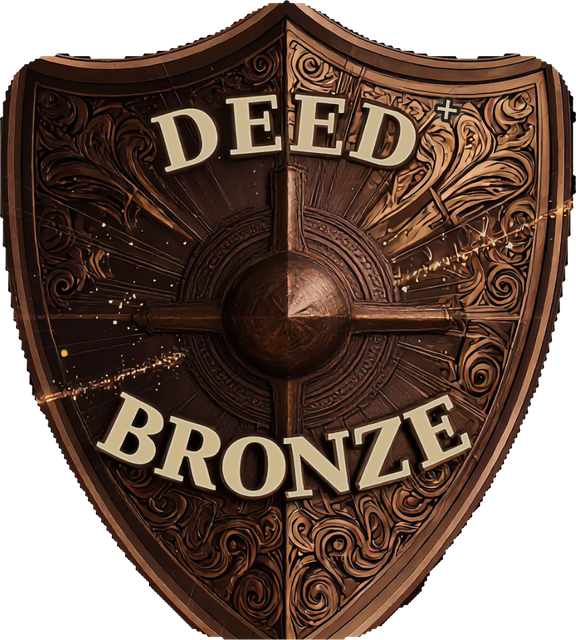
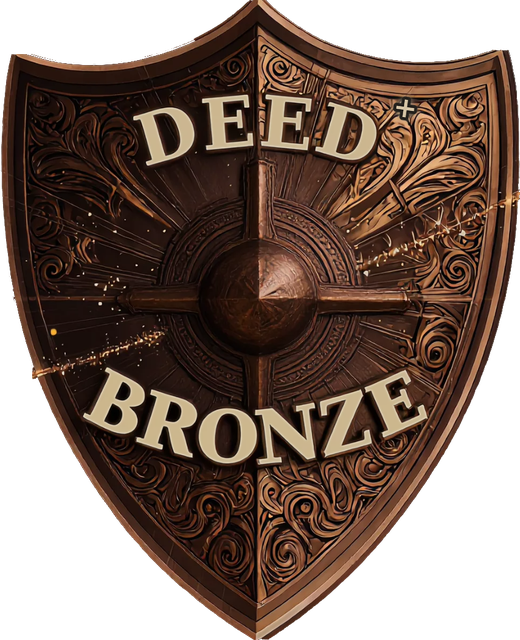
Jednotny profil naprieč appkou + nove stitove assety
- Stitove assety vymenene za finalne (orezane, priehladne pozadie)
- CudziProfil: jednotne tri cisla, stit v hlavicke, O nas pod menom, QR v akcnom riadku, sekcia DOVERA prec
- FarskyProfil: jednotne tri cisla, popis orezany na 3 riadky s odkazom viac, akcny riadok Sledovat/Zdielat/QR/zvoncek
- Profil (user): stit 36 -> 86 px, klikatelny detail
- orgy.ts: stat rozsireny o skutky a snami

Claude-Session: https://claude.ai/code/session_01FfySxXW9bjXwHm1Q1Y7jQ9

diff --git a/src/features/cudzi-profil/orgy.ts b/src/features/cudzi-profil/orgy.ts
@@ -31,7 +31,7 @@ export interface OrgData {
   cover: string;
   logo: string;
   onas: string;
-  stat: { vyzbierane: string; podporovatelia: string };
+  stat: { vyzbierane: string; podporovatelia: string; skutky: string; snami: string };
   kampane: OrgKampan[];
   akcie: Akcia[];
 }
@@ -68,7 +68,7 @@ const ORGY: OrgData[] = [
     meno: "OZ Otvorené dvere Trenčín", lok: "Trenčín · centrum", level: "Gold", emoji: "🍲",
     cover: F.vydajObedov, logo: F.jedalen,
     onas: "Nízkoprahová jedáleň a nocľaháreň pre ľudí bez domova v Trenčíne. Denne vydáme 120 teplých obedov a pred zimou dopĺňame zásoby. Doklady o použití prostriedkov zverejňujeme.",
-    stat: { vyzbierane: "18 400 €", podporovatelia: "612" },
+    stat: { vyzbierane: "18 400 €", podporovatelia: "612", skutky: "64", snami: "4 roky" },
     kampane: [
       { id: "charitatn", nazov: "Zásoby pre jedáleň pred zimou", vyzbierane: 940, ciel: 2500, foto: F.jedalen, emoji: "🍲", lok: "Trenčín · centrum", ludia: 41,
         popis: "Nízkoprahová jedáleň vydáva denne 120 teplých obedov ľuďom bez domova. Pred zimou chýbajú zásoby." },
@@ -81,7 +81,7 @@ const ORGY: OrgData[] = [
     meno: "OZ Túlavá labka", lok: "Trenčín · okraj", level: "Silver", emoji: "🐾",
     cover: F.utulok, logo: F.utulok,
     onas: "Zachraňujeme opustené psy a mačky v okolí Trenčína. Staráme sa o 40 zvierat, hľadáme im nové domovy a pokrývame veterinárnu starostlivosť.",
-    stat: { vyzbierane: "6 850 €", podporovatelia: "294" },
+    stat: { vyzbierane: "6 850 €", podporovatelia: "294", skutky: "31", snami: "2 roky" },
     kampane: [
       { id: "labka", nazov: "Krmivo a deky na zimu", vyzbierane: 540, ciel: 1200, foto: F.utulok, emoji: "🐾", lok: "Trenčín · okraj", ludia: 28,
         popis: "Krmivo a deky pre 40 psov a mačiek na zimu. Pomôže aj materiálny dar." },
@@ -94,7 +94,7 @@ const ORGY: OrgData[] = [
     meno: "Hospic Pod Brezinou", lok: "Trenčín · centrum", level: "Gold", emoji: "🕊",
     cover: F.zdravotnici, logo: F.zdravotnici,
     onas: "Paliatívna starostlivosť s dôstojnosťou do poslednej chvíle. Sprevádzame pacientov aj ich rodiny — doma aj na lôžkovom oddelení.",
-    stat: { vyzbierane: "31 200 €", podporovatelia: "857" },
+    stat: { vyzbierane: "31 200 €", podporovatelia: "857", skutky: "71", snami: "3 roky" },
     kampane: [
       { id: "hospic", nazov: "Polohovacie lôžka pre paliatívne oddelenie", vyzbierane: 2380, ciel: 6000, foto: F.zdravotnici, emoji: "🛏", lok: "Trenčín · centrum", ludia: 34,
         popis: "Zbierka na polohovacie lôžka pre paliatívne oddelenie. Dôstojnosť do poslednej chvíle." },
@@ -107,7 +107,7 @@ const ORGY: OrgData[] = [
     meno: "Detská nemocnica — nadácia", lok: "nadácia · Bratislava", level: "Gold", emoji: "🏥",
     cover: F.nemocnica, logo: F.nemocnica,
     onas: "Pomáhame detským oddeleniam nemocníc na Slovensku. Overená nezisková organizácia. Doklady o použití prostriedkov zverejňujeme.",
-    stat: { vyzbierane: "64 300 €", podporovatelia: "2 118" },
+    stat: { vyzbierane: "64 300 €", podporovatelia: "2 118", skutky: "176", snami: "5 rokov" },
     kampane: [
       { id: "nadacia-inkubator", nazov: "Nový inkubátor pre novorodencov", vyzbierane: 11200, ciel: 18000, foto: F.nemocnica, emoji: "👶", lok: "Bratislava", ludia: 204,
         popis: "Neonatologické oddelenie potrebuje nový inkubátor pre predčasne narodené deti. Každé euro pomáha najmenším." },
@@ -120,7 +120,7 @@ const ORGY: OrgData[] = [
     meno: "Motýlik", lok: "Detský hospic · Bratislava", level: "Gold", emoji: "🕊",
     cover: F.srdce, logo: F.srdce,
     onas: "Detský hospic — mobilná paliatívna starostlivosť pre nevyliečiteľne choré deti a ich rodiny. Sprevádzame doma, kde je deťom najlepšie.",
-    stat: { vyzbierane: "128 500 €", podporovatelia: "4 902" },
+    stat: { vyzbierane: "128 500 €", podporovatelia: "4 902", skutky: "408", snami: "5 rokov" },
     kampane: [
       { id: "motylik-mobil", nazov: "Mobilná paliatívna starostlivosť", vyzbierane: 42300, ciel: 60000, foto: F.zdravotnici, emoji: "🚑", lok: "celá SR", ludia: 1240,
         popis: "Tím lekárov a sestier dochádza za deťmi domov po celom Slovensku. Ročné náklady na jednu rodinu sú 4 800 €." },
@@ -131,7 +131,7 @@ const ORGY: OrgData[] = [
     meno: "Nádej pacientom", lok: "Onkopacienti · celé SR", level: "Legend", emoji: "🎗",
     cover: F.lieky, logo: F.lieky,
     onas: "Už 30 rokov pomáhame onkologickým pacientom a ich rodinám — poradenstvo, ubytovanie pri liečbe, rekondičné pobyty a prevencia.",
-    stat: { vyzbierane: "212 000 €", podporovatelia: "9 340" },
+    stat: { vyzbierane: "212 000 €", podporovatelia: "9 340", skutky: "778", snami: "5 rokov" },
     kampane: [
       { id: "nadej-den-stuzky", nazov: "Deň žltej stužky — podpora pacientov", vyzbierane: 86000, ciel: 120000, foto: F.kvety, emoji: "🌼", lok: "celá SR", ludia: 5120,
         popis: "Výnos Dňa žltej stužky financuje bezplatné poradenstvo, ubytovanie rodín pri liečbe a rekondičné pobyty pacientov." },
@@ -142,7 +142,7 @@ const ORGY: OrgData[] = [
     meno: "Tichý pomocník", lok: "Rodiny s vážnou chorobou · SR", level: "Gold", emoji: "😇",
     cover: F.srdce, logo: F.kvety,
     onas: "Pravidelné mesačné príspevky rodinám, kde choroba dieťaťa alebo rodiča spôsobila finančnú núdzu. Každé euro od darcov ide rodinám do posledného centu.",
-    stat: { vyzbierane: "540 000 €", podporovatelia: "18 250" },
+    stat: { vyzbierane: "540 000 €", podporovatelia: "18 250", skutky: "1520", snami: "5 rokov" },
     kampane: [
       { id: "pomocnik-rodiny", nazov: "Mesačná pomoc 3 200 rodinám", vyzbierane: 265000, ciel: 400000, foto: F.srdce, emoji: "💛", lok: "celá SR", ludia: 18250,
         popis: "Pravidelný mesačný príspevok drží rodiny s chorým dieťaťom nad vodou. Systém Dobrého anjela posiela darcom presné vyúčtovanie." },
@@ -153,7 +153,7 @@ const ORGY: OrgData[] = [
     meno: "Náruč deťom", lok: "Deti v náhradnej starostlivosti · SR", level: "Gold", emoji: "🧒",
     cover: F.deti, logo: F.deti,
     onas: "Aby každé dieťa malo rodinu. Podporujeme deti v centrách pre deti a rodiny, sprevádzame náhradné rodiny a pomáhame súrodencom ostať spolu.",
-    stat: { vyzbierane: "98 700 €", podporovatelia: "3 605" },
+    stat: { vyzbierane: "98 700 €", podporovatelia: "3 605", skutky: "300", snami: "5 rokov" },
     kampane: [
       { id: "naruc-tabory", nazov: "Letné tábory pre deti z centier", vyzbierane: 7400, ciel: 15000, foto: F.mladez, emoji: "⛺", lok: "celá SR", ludia: 411,
         popis: "Týždeň tábora pre dieťa z centra znamená kamarátov, zážitky a pocit normálneho detstva. Jeden pobyt = 180 €." },
@@ -164,7 +164,7 @@ const ORGY: OrgData[] = [
     meno: "Zvieracia archa", lok: "Útulky · celá SR", level: "Gold", emoji: "🐾",
     cover: F.utulok, logo: F.utulok,
     onas: "Najväčšia sieť útulkov na Slovensku. Ročne zachránime tisíce zvierat — veterinárna starostlivosť, adopcie a terénne zásahy proti týraniu.",
-    stat: { vyzbierane: "156 000 €", podporovatelia: "7 812" },
+    stat: { vyzbierane: "156 000 €", podporovatelia: "7 812", skutky: "651", snami: "5 rokov" },
     kampane: [
       { id: "archa-utulky", nazov: "Prevádzka útulkov a krmivo", vyzbierane: 34500, ciel: 50000, foto: F.utulok, emoji: "🐕", lok: "celá SR", ludia: 2140,
         popis: "Denná prevádzka útulkov: krmivo, energie a veterinárna starostlivosť pre stovky zvierat čakajúcich na domov." },
@@ -175,7 +175,7 @@ const ORGY: OrgData[] = [
     meno: "Prístrešie SK", lok: "Ľudia bez domova · Bratislava", level: "Silver", emoji: "🏠",
     cover: F.vydajObedov, logo: F.ruky,
     onas: "Nocľahárne a útulky s najnižším prahom — prijmeme každého. Nocľah, jedlo, ošetrenie a cesta späť do života pre ľudí bez domova.",
-    stat: { vyzbierane: "72 400 €", podporovatelia: "2 511" },
+    stat: { vyzbierane: "72 400 €", podporovatelia: "2 511", skutky: "209", snami: "5 rokov" },
     kampane: [
       { id: "pristresie-nocl", nazov: "Nocľaháreň sv. Vincenta — zima", vyzbierane: 18200, ciel: 30000, foto: F.vydajObedov, emoji: "🛏", lok: "Bratislava", ludia: 903,
         popis: "V mrazoch je nocľaháreň otázka života. Jedna noc s večerou a ošetrením pre jedného človeka = 9 €." },
@@ -186,7 +186,7 @@ const ORGY: OrgData[] = [
     meno: "Stromosvet", lok: "Výsadba stromov · SR", level: "Bronze", emoji: "🌳",
     cover: F.les, logo: F.les,
     onas: "Sadíme stromy tam, kde chýbajú — mestské aleje, vetrolamy aj obnova lesov po kalamitách. Každý strom má svojho darcu.",
-    stat: { vyzbierane: "12 300 €", podporovatelia: "740" },
+    stat: { vyzbierane: "12 300 €", podporovatelia: "740", skutky: "61", snami: "3 roky" },
     kampane: [
       { id: "stromosvet-brezina", nazov: "1 000 stromov pre Brezinu", vyzbierane: 4100, ciel: 8000, foto: F.les, emoji: "🌳", lok: "Trenčín · Brezina", ludia: 312,
         popis: "Obnova lesoparku Brezina po kalamite. Jeden strom so sadením a starostlivosťou = 8 €." },
@@ -197,7 +197,7 @@ const ORGY: OrgData[] = [
     meno: "Klub seniorov Sihoť", lok: "Komunita · Sihoť", level: "Silver", emoji: "☕",
     cover: F.seniori, logo: F.seniori2,
     onas: "Komunitný klub pre osamelých seniorov na Sihoti — pravidelné stretnutia, výlety, tvorivé dielne a medzigeneračné akcie so školami.",
-    stat: { vyzbierane: "3 900 €", podporovatelia: "186" },
+    stat: { vyzbierane: "3 900 €", podporovatelia: "186", skutky: "15", snami: "2 roky" },
     kampane: [
       { id: "seniori-dielne", nazov: "Tvorivé dielne a výlety pre seniorov", vyzbierane: 820, ciel: 2000, foto: F.seniori, emoji: "🎨", lok: "Trenčín · Sihoť", ludia: 74,
         popis: "Program na celý polrok: dielne, prednášky a dva výlety. Účasť pre seniorov zostáva zadarmo." },
@@ -208,7 +208,7 @@ const ORGY: OrgData[] = [
     meno: "Dobrovoľní hasiči TN", lok: "Komunita · Trenčín", level: "Gold", emoji: "🚒",
     cover: F.dobrovolnici, logo: F.dobrovolnici,
     onas: "Dobrovoľný hasičský zbor Trenčín — zásahy pri povodniach a požiaroch, ukážky pre školy a výcvik mladých hasičov.",
-    stat: { vyzbierane: "9 100 €", podporovatelia: "402" },
+    stat: { vyzbierane: "9 100 €", podporovatelia: "402", skutky: "33", snami: "2 roky" },
     kampane: [
       { id: "hasici-vybava", nazov: "Zásahová výbava pre mladých hasičov", vyzbierane: 2900, ciel: 6000, foto: F.dobrovolnici, emoji: "🧯", lok: "Trenčín", ludia: 168,
         popis: "Prilby, rukavice a výstroj pre dorast. Mladí hasiči trénujú s výbavou po starších — potrebujú vlastnú." },
@@ -251,7 +251,7 @@ export function najdiOrg(meno?: string): OrgData {
     meno: meno || "Organizácia", lok: "Slovensko", level: "Silver", emoji: "🏛",
     cover: p.cover, logo: p.logo,
     onas: `${meno || "Organizácia"} je overená organizácia na platforme DEED. Doklady o použití prostriedkov zverejňuje pri každej zbierke.`,
-    stat: { vyzbierane: `${(2 + (n % 38)).toLocaleString("sk")} ${(100 + (n % 900)).toString().padStart(3, "0")} €`, podporovatelia: (120 + (n % 4200)).toLocaleString("sk") },
+    stat: { vyzbierane: `${(2 + (n % 38)).toLocaleString("sk")} ${(100 + (n % 900)).toString().padStart(3, "0")} €`, podporovatelia: (120 + (n % 4200)).toLocaleString("sk"), skutky: String(8 + (n % 140)), snami: `${1 + (n % 5)} rok${(1 + (n % 5)) === 1 ? "" : (1 + (n % 5)) < 5 ? "y" : "ov"}` },
     kampane: [
       { id: `gen-${n % 9999}`, nazov: "Všeobecná podpora organizácie", vyzbierane: 800 + (n % 4000), ciel: 6000, foto: p.cover, emoji: "💛", lok: "Slovensko", ludia: 40 + (n % 300),
         popis: "Podpora dlhodobej činnosti organizácie — každé euro je dohľadateľné a vyúčtované." },

diff --git a/src/features/cudzi-profil/CudziProfil.tsx b/src/features/cudzi-profil/CudziProfil.tsx
@@ -2,10 +2,10 @@ import { useState } from "react";
 import { SIRKA, C, SPACE, RADIUS } from "@/theme";
 import {
   Aura, MoniBar, QrModal, SegTabs, useLayout, obalSiroky, BackHeader, IkonaFajka, IkonaPlay, Zdielanie, IkonaUsmev,
-  EntityHero, BtnAkcia, BtnIkonka, KontextMenu, TabyProfil, MenuSkupina, MenuPolozka, DvaStlpce,
+  EntityHero, BtnAkcia, BtnIkonka, KontextMenu, TabyProfil, MenuSkupina, DvaStlpce,
   IkonaMoznosti, IkonaQr, IkonaVlajka, IkonaOdkaz, Zvon, tint as tintVar,
   Foto, Sheet, ProgresBox, PlatobnyModul, PlatbaModal, ZoznamDarcov,
-  FotoProfiluSheet, KamerkaBadge, ZmenitPill,
+  FotoProfiluSheet, KamerkaBadge, ZmenitPill, Stit, naStitLevel,
 } from "@/shared";
 import { pressable } from "@/components/pressable";
 import { FOTO_TEST_REZIM, klucEntity, useFotkyEntity } from "@/lib/fotoentity";
@@ -79,6 +79,7 @@ function OrgProfil({ s, onBack, toast, onKampan }: { s: CudziSubjektOrg; onBack?
   const cover = org.cover;
   const sleduje = sledujem(meno);
   const level = s.level || org.level;
+  const [onasViac, setOnasViac] = useState(false);
   const kampane = org.kampane;
   const akcie = org.akcie;
   const otvorKampan = (k: OrgKampan) => { if (onKampan) onKampan(k); else setKampanDetail(k); };
@@ -124,23 +125,22 @@ function OrgProfil({ s, onBack, toast, onKampan }: { s: CudziSubjektOrg; onBack?
     </>
   );
 
-  const oNasBlok = (
-    <MenuSkupina nadpis="O NÁS">
-      <div style={{ padding: SPACE.gutter, fontSize: 13, lineHeight: 1.55, color: C.textSec }}>{org.onas}</div>
-    </MenuSkupina>
+  // O nás priamo pod hlavičkou — 3 riadky, zvyšok na „viac"
+  const oNasKratky = (
+    <div style={{ fontSize: 13, lineHeight: 1.5, color: C.textSec }}>
+      <span style={onasViac ? undefined : { display: "-webkit-box", WebkitLineClamp: 3, WebkitBoxOrient: "vertical", overflow: "hidden" }}>{org.onas}</span>
+      {org.onas.length > 140 && (
+        <span {...pressable(() => setOnasViac((v) => !v), onasViac ? "Zbaliť" : "Zobraziť viac")}
+          style={{ display: "inline-block", marginTop: 2, fontSize: 12.5, fontWeight: 700, color: "var(--a-info)", cursor: "pointer" }}>
+          {onasViac ? "menej" : "viac"}
+        </span>
+      )}
+    </div>
   );
 
-  const doveraBlok = (
-    <>
-      <MenuSkupina nadpis="DÔVERA">
-        <div style={{ display: "flex", alignItems: "center", gap: SPACE.sm, padding: SPACE.gutter }}>
-          <span style={{ width: 38, height: 38, borderRadius: RADIUS.sm, flex: "none", display: "flex", alignItems: "center", justifyContent: "center", background: tintVar("var(--a-green)", .12) }}><IkonaFajka size={18} color="var(--a-green)" /></span>
-          <div style={{ fontSize: 12, color: C.textSec, lineHeight: 1.45 }}><b style={{ color: C.text }}>Odznak dôvery {level}</b> — zaslúžený za overené skutky, nedá sa kúpiť.</div>
-        </div>
-        <MenuPolozka ikona={<IkonaQr size={16} />} farba="var(--a-info)" label="QR profilu charity" popis="Zdieľanie a odznak na vlastný web" onClick={() => setQr(true)} posledna />
-      </MenuSkupina>
-    </>
-  );
+  const oNasBlok = null;
+
+  const doveraBlok = null;
 
   return (
     <div style={{ paddingBottom: SPACE.lg }}>
@@ -159,10 +159,16 @@ function OrgProfil({ s, onBack, toast, onKampan }: { s: CudziSubjektOrg; onBack?
           onCover={smiemUpravit ? () => setFotky(true) : undefined}
           meno={meno} overene overeneLabel={`Overená charita · ${level}`}
           podtitul={s.lok || org.lok}
+          vpravo={
+            <div style={{ textAlign: "center" }} title="Štít sa zaslúži skutkami — nedá sa kúpiť">
+              <Stit level={naStitLevel(level)} size={desktop ? 104 : 86} detail subjekt={meno} />
+            </div>
+          }
+          podMenom={oNasKratky}
           stats={[
-            { hodnota: org.stat.vyzbierane, label: "vyzbierané" },
-            { hodnota: org.stat.podporovatelia, label: "podporovateľov" },
-            { hodnota: level, label: "úroveň", farba: "var(--a-gold)" },
+            { hodnota: org.stat.vyzbierane, label: "Vyzbierané" },
+            { hodnota: org.stat.skutky, label: "Skutky" },
+            { hodnota: org.stat.snami, label: "S nami" },
           ]}
           akcie={<>
             <BtnAkcia variant={sleduje ? "secondary" : "primary"} ariaPressed={sleduje}
@@ -170,6 +176,7 @@ function OrgProfil({ s, onBack, toast, onKampan }: { s: CudziSubjektOrg; onBack?
               {sleduje ? "✓ Sledované" : "Sledovať"}
             </BtnAkcia>
             <BtnAkcia variant="secondary" onClick={zdielajProfil}><Zdielanie size={14} /> Zdieľať</BtnAkcia>
+            <BtnIkonka label="QR kód profilu" onClick={() => setQr(true)}><IkonaQr size={16} /></BtnIkonka>
             <BtnIkonka label={zvoncek ? "Vypnúť upozornenia" : "Zapnúť upozornenia"} aktivne={zvoncek} farba="var(--a-gold)"
               onClick={() => { setZvoncek((v) => !v); toast?.(zvoncek ? "Upozornenia vypnuté" : "Upozornenia na kampane a akcie zapnuté"); }}>
               <Zvon size={16} />

diff --git a/src/features/viera/FarskyProfil.tsx b/src/features/viera/FarskyProfil.tsx
@@ -4,7 +4,7 @@ import { MEDIA_AR } from "@/lib/cardSize";
 import {
   Foto, BackHeader, ProgresBox, PlatobnyModul, PlatbaModal, RecurringSheet, QrModal,
   MoniBar, Switch, Input, EmptyState, useStrankaAkcie,
-  Zdielanie, IkonaVlajka, IkonaDoska, IkonaPlus, IkonaOko, IkonaNastavenia, Srdce, useGaleria, useLayout,
+  Zdielanie, IkonaVlajka, IkonaDoska, IkonaPlus, IkonaOko, IkonaNastavenia, Srdce, Zvon, useGaleria, useLayout,
   ZoznamDarcov, FormatovanyText, RichTextInput, FotoUpload, KamerkaBadge, ZmenitPill, FotoProfiluSheet, VideoEmbed, vlozenieVidea,
   StatRad, BtnAkcia, BtnIkonka, KontextMenu, MenuSkupina, MenuHlavicka, MenuPolozka, DvaStlpce,
   IkonaMoznosti, IkonaQr, IkonaKalendar, IkonaMegafon, IkonaCeruzka,
@@ -57,6 +57,8 @@ export function FarskyProfil({ farnost, farar, jeDomovska, following, onToggleFo
   const [platba, setPlatba] = useState<Kanal | null>(null);
   const [recur, setRecur] = useState(false);
   const [qr, setQr] = useState<"donacny" | "zdielat" | null>(null);
+  const [popisViac, setPopisViac] = useState(false);
+  const [zvoncek, setZvoncek] = useState(false);
   const [sprava, setSprava] = useState(false); // editácia profilu (sheet)
   const [fotky, setFotky] = useState(false);   // rýchla zmena fotiek (test režim, bez správy)
   const [potvrdHome, setPotvrdHome] = useState(false); // A9 potvrdenie „nastaviť ako moju cirkev"
@@ -141,16 +143,24 @@ export function FarskyProfil({ farnost, farar, jeDomovska, following, onToggleFo
 
         {/* stat hlavička (bez karmy — len fakty) */}
         <div style={{ marginBottom: SPACE.sm }}>
-          <StatRad kompakt stats={[
-            { hodnota: (farnost.sledovatelia ?? 0).toLocaleString("sk-SK"), label: "sledujúcich" },
-            { hodnota: stat.zbierky, label: stat.zbierky === 1 ? "zbierka" : "zbierky" },
-            ...(farnost.zalozena ? [{ hodnota: farnost.zalozena, label: "založená", farba: N.gold }] : []),
+          <StatRad stats={[
+            { hodnota: `${eur(suma)} €`, label: "Vyzbierané" },
+            { hodnota: String(stat.zbierky), label: "Skutky" },
+            { hodnota: "2 roky", label: "S nami" },
           ]} />
         </div>
 
         {/* popis (história, založenie, výnimočnosti) — formátovaný text (odseky prežijú) */}
-        <div style={{ fontSize: 14, lineHeight: 1.55, color: N.txt2, margin: `${SPACE.xs}px 0 ${SPACE.gutter}px` }}>
-          <FormatovanyText text={view.popis} />
+        <div style={{ fontSize: 13, lineHeight: 1.5, color: N.txt2, margin: `${SPACE.xs}px 0 ${SPACE.gutter}px` }}>
+          <div style={popisViac ? undefined : { display: "-webkit-box", WebkitLineClamp: 3, WebkitBoxOrient: "vertical", overflow: "hidden" }}>
+            <FormatovanyText text={view.popis} />
+          </div>
+          {cistyText(view.popis).length > 140 && (
+            <span {...pressable(() => setPopisViac((v) => !v), popisViac ? "Zbaliť" : "Zobraziť viac")}
+              style={{ display: "inline-block", marginTop: 2, fontSize: 12.5, fontWeight: 700, color: "var(--a-info)", cursor: "pointer" }}>
+              {popisViac ? "menej" : "viac"}
+            </span>
+          )}
         </div>
 
         {/* video farnosti — LEN embed (YouTube/Vimeo), nič nehostujeme */}
@@ -193,10 +203,15 @@ export function FarskyProfil({ farnost, farar, jeDomovska, following, onToggleFo
               <Srdce size={14} filled={following} color={following ? N.green : "#fff"} /> {following ? "Sledované" : "Sledovať"}
             </BtnAkcia>
           )}
+          <BtnAkcia variant="secondary" onClick={() => setQr("zdielat")}><Zdielanie size={14} /> Zdieľať</BtnAkcia>
+          <BtnIkonka label="QR kód profilu" onClick={() => setQr(farar ? "donacny" : "zdielat")}><IkonaQr size={16} /></BtnIkonka>
+          <BtnIkonka label={zvoncek ? "Vypnúť upozornenia" : "Zapnúť upozornenia"} aktivne={zvoncek} farba={N.gold}
+            onClick={() => { setZvoncek((v) => !v); toast(zvoncek ? "Upozornenia vypnuté" : "Upozornenia zapnuté"); }}>
+            <Zvon size={16} />
+          </BtnIkonka>
           {!farar && (
-            <BtnAkcia variant="secondary" onClick={onPridat}><IkonaPlus size={14} /> Pridať oznam</BtnAkcia>
+            <BtnIkonka label="Pridať oznam" onClick={onPridat}><IkonaPlus size={16} /></BtnIkonka>
           )}
-          <BtnIkonka label="Zdieľať profil" onClick={() => setQr("zdielat")}><Zdielanie size={16} /></BtnIkonka>
         </div>
 
         <DvaStlpce

diff --git a/src/features/profil/Profil.tsx b/src/features/profil/Profil.tsx
@@ -224,7 +224,7 @@ function IdentitaKarta({ naNastavenia }: { naNastavenia: () => void }) {
 
       {/* ŠTÍT + text — NIKDY progress bar/percentá (level-up je prekvapenie; všetci začínajú Bronze) */}
       <div style={{ marginTop: SPACE.gutter, display: "flex", alignItems: "center", gap: SPACE.sm }}>
-        <Stit level={ja.demo ? "Gold" : "Bronze"} size={36} />
+        <Stit level={ja.demo ? "Gold" : "Bronze"} size={86} detail subjekt={ja.meno} />
         <div style={{ minWidth: 0, fontSize: 12, color: C.textTer, lineHeight: 1.45 }}>
           <b style={{ color: "var(--a-gold)" }}>{ja.demo ? "Gold" : "Bronze"}</b> · {STIT_POPIS[ja.demo ? "Gold" : "Bronze"]}
           {!ja.demo && <><br />{ja.mesto && ja.mesto !== "—" ? `${ja.mesto} · ` : ""}Karma rastie overenými skutkami.</>}
